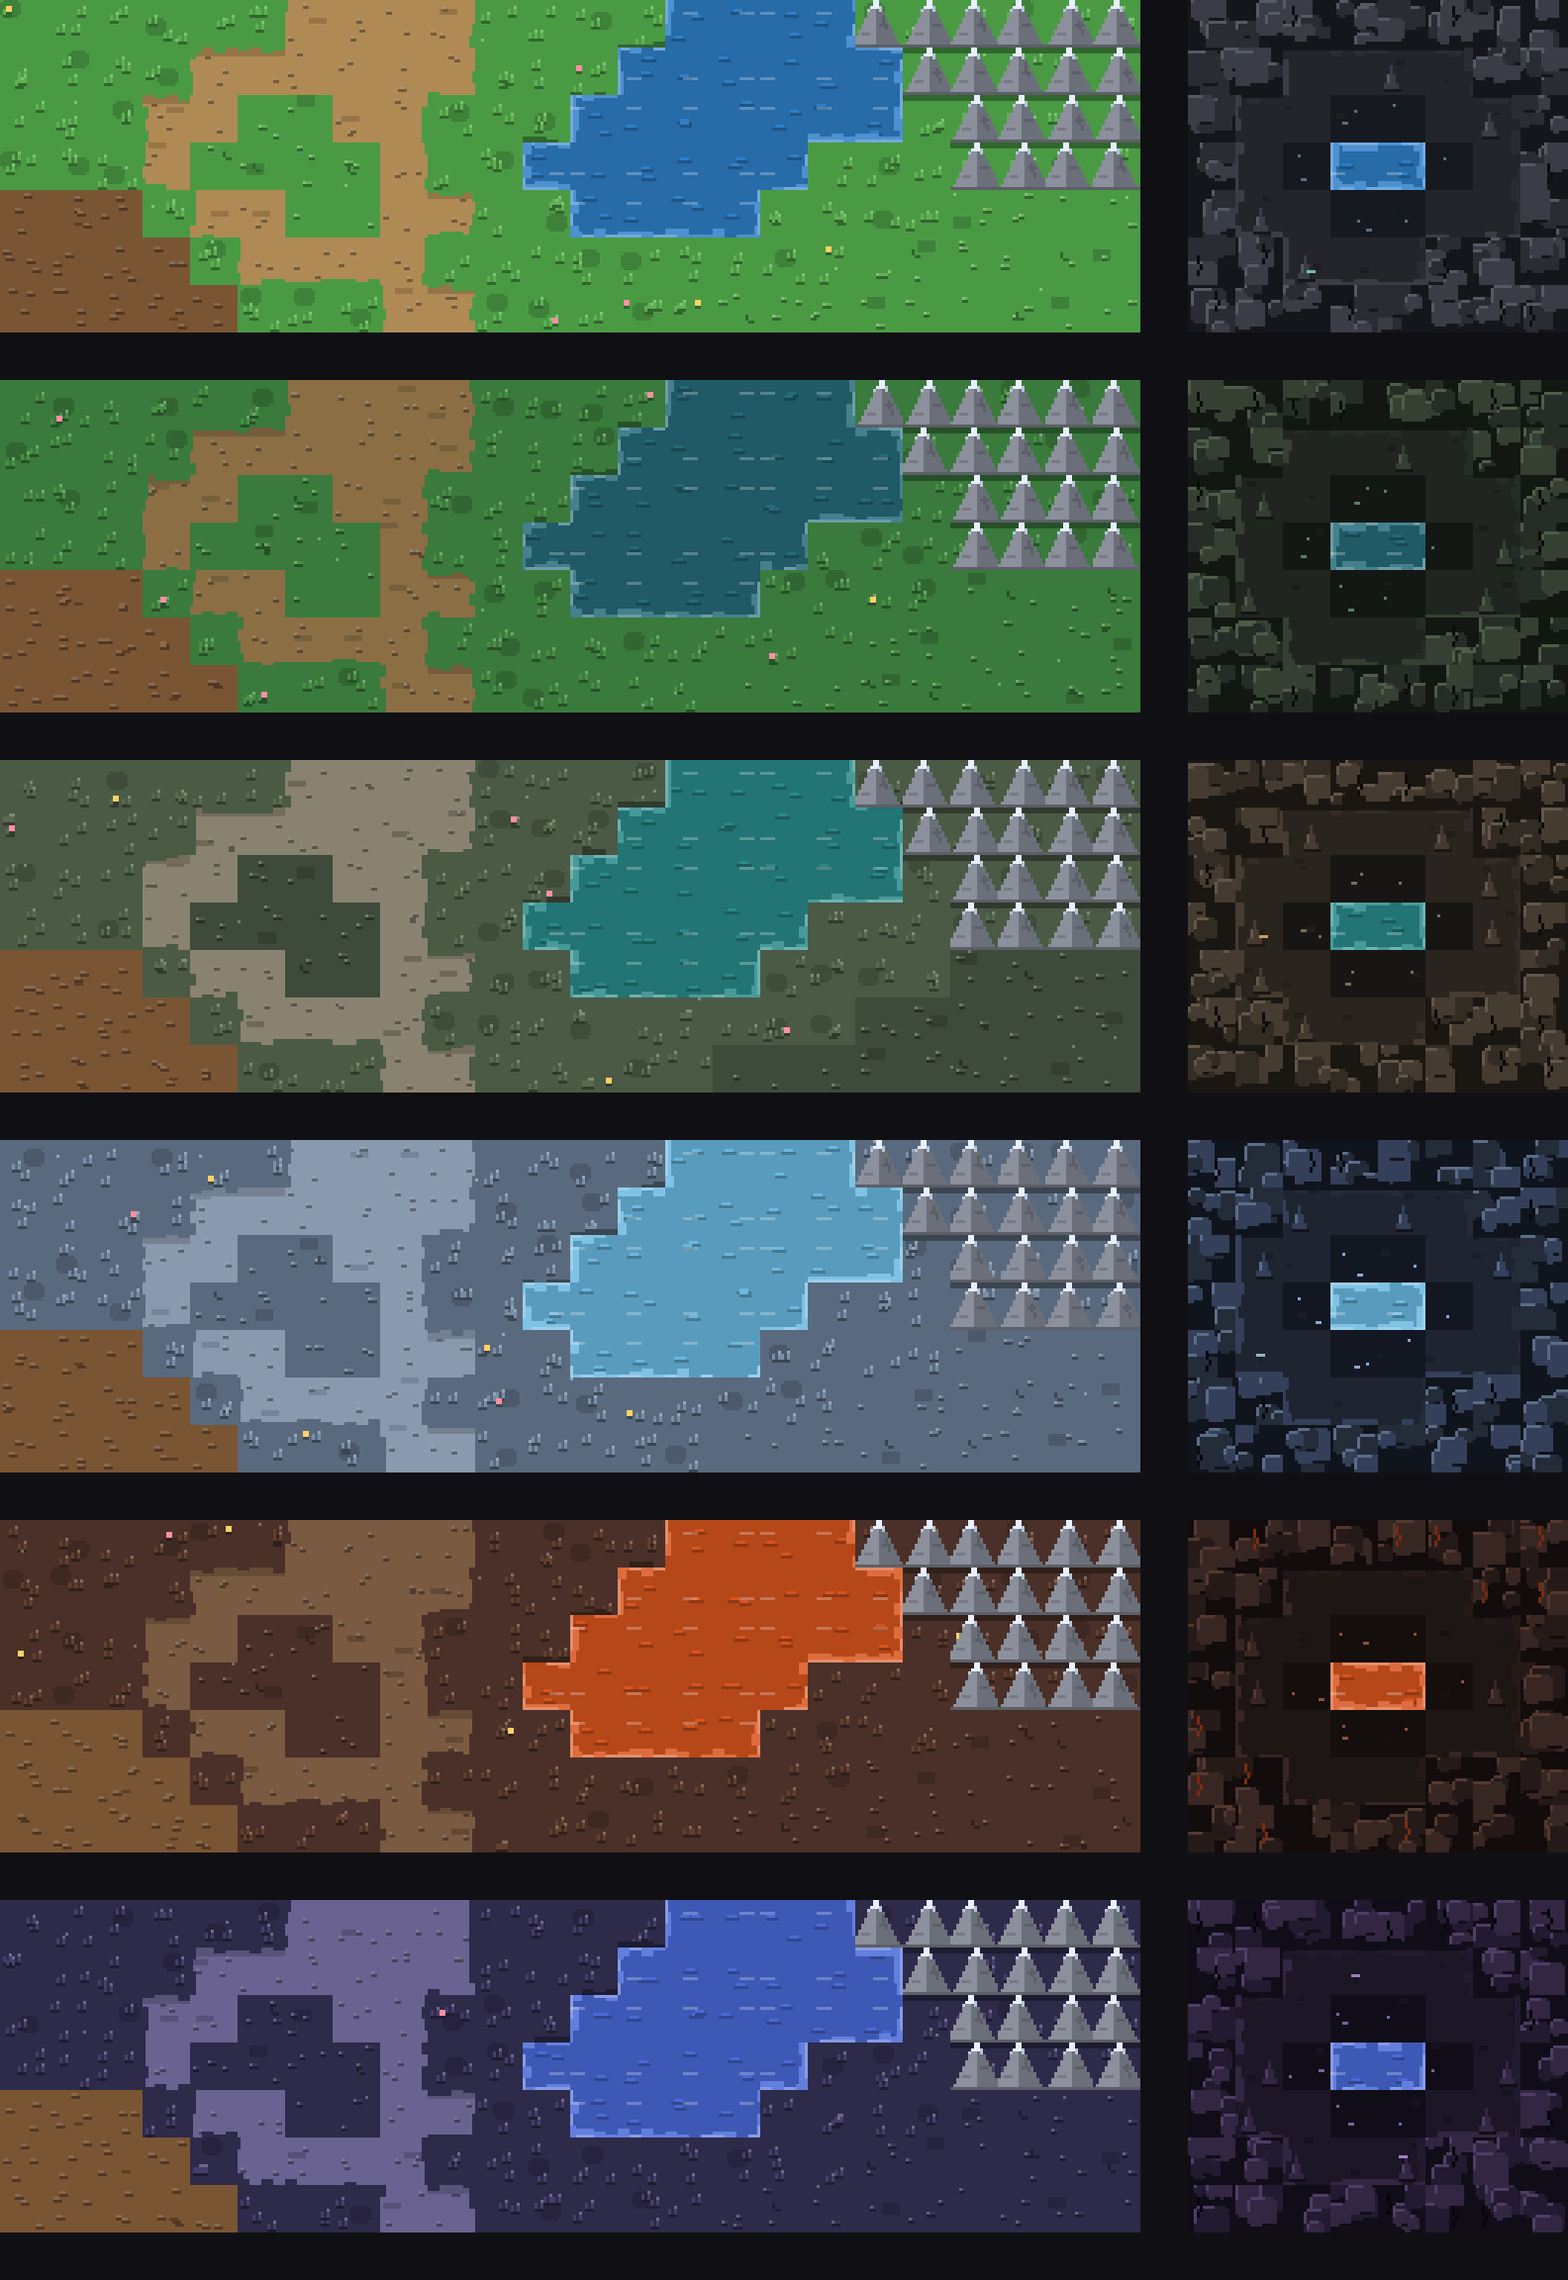
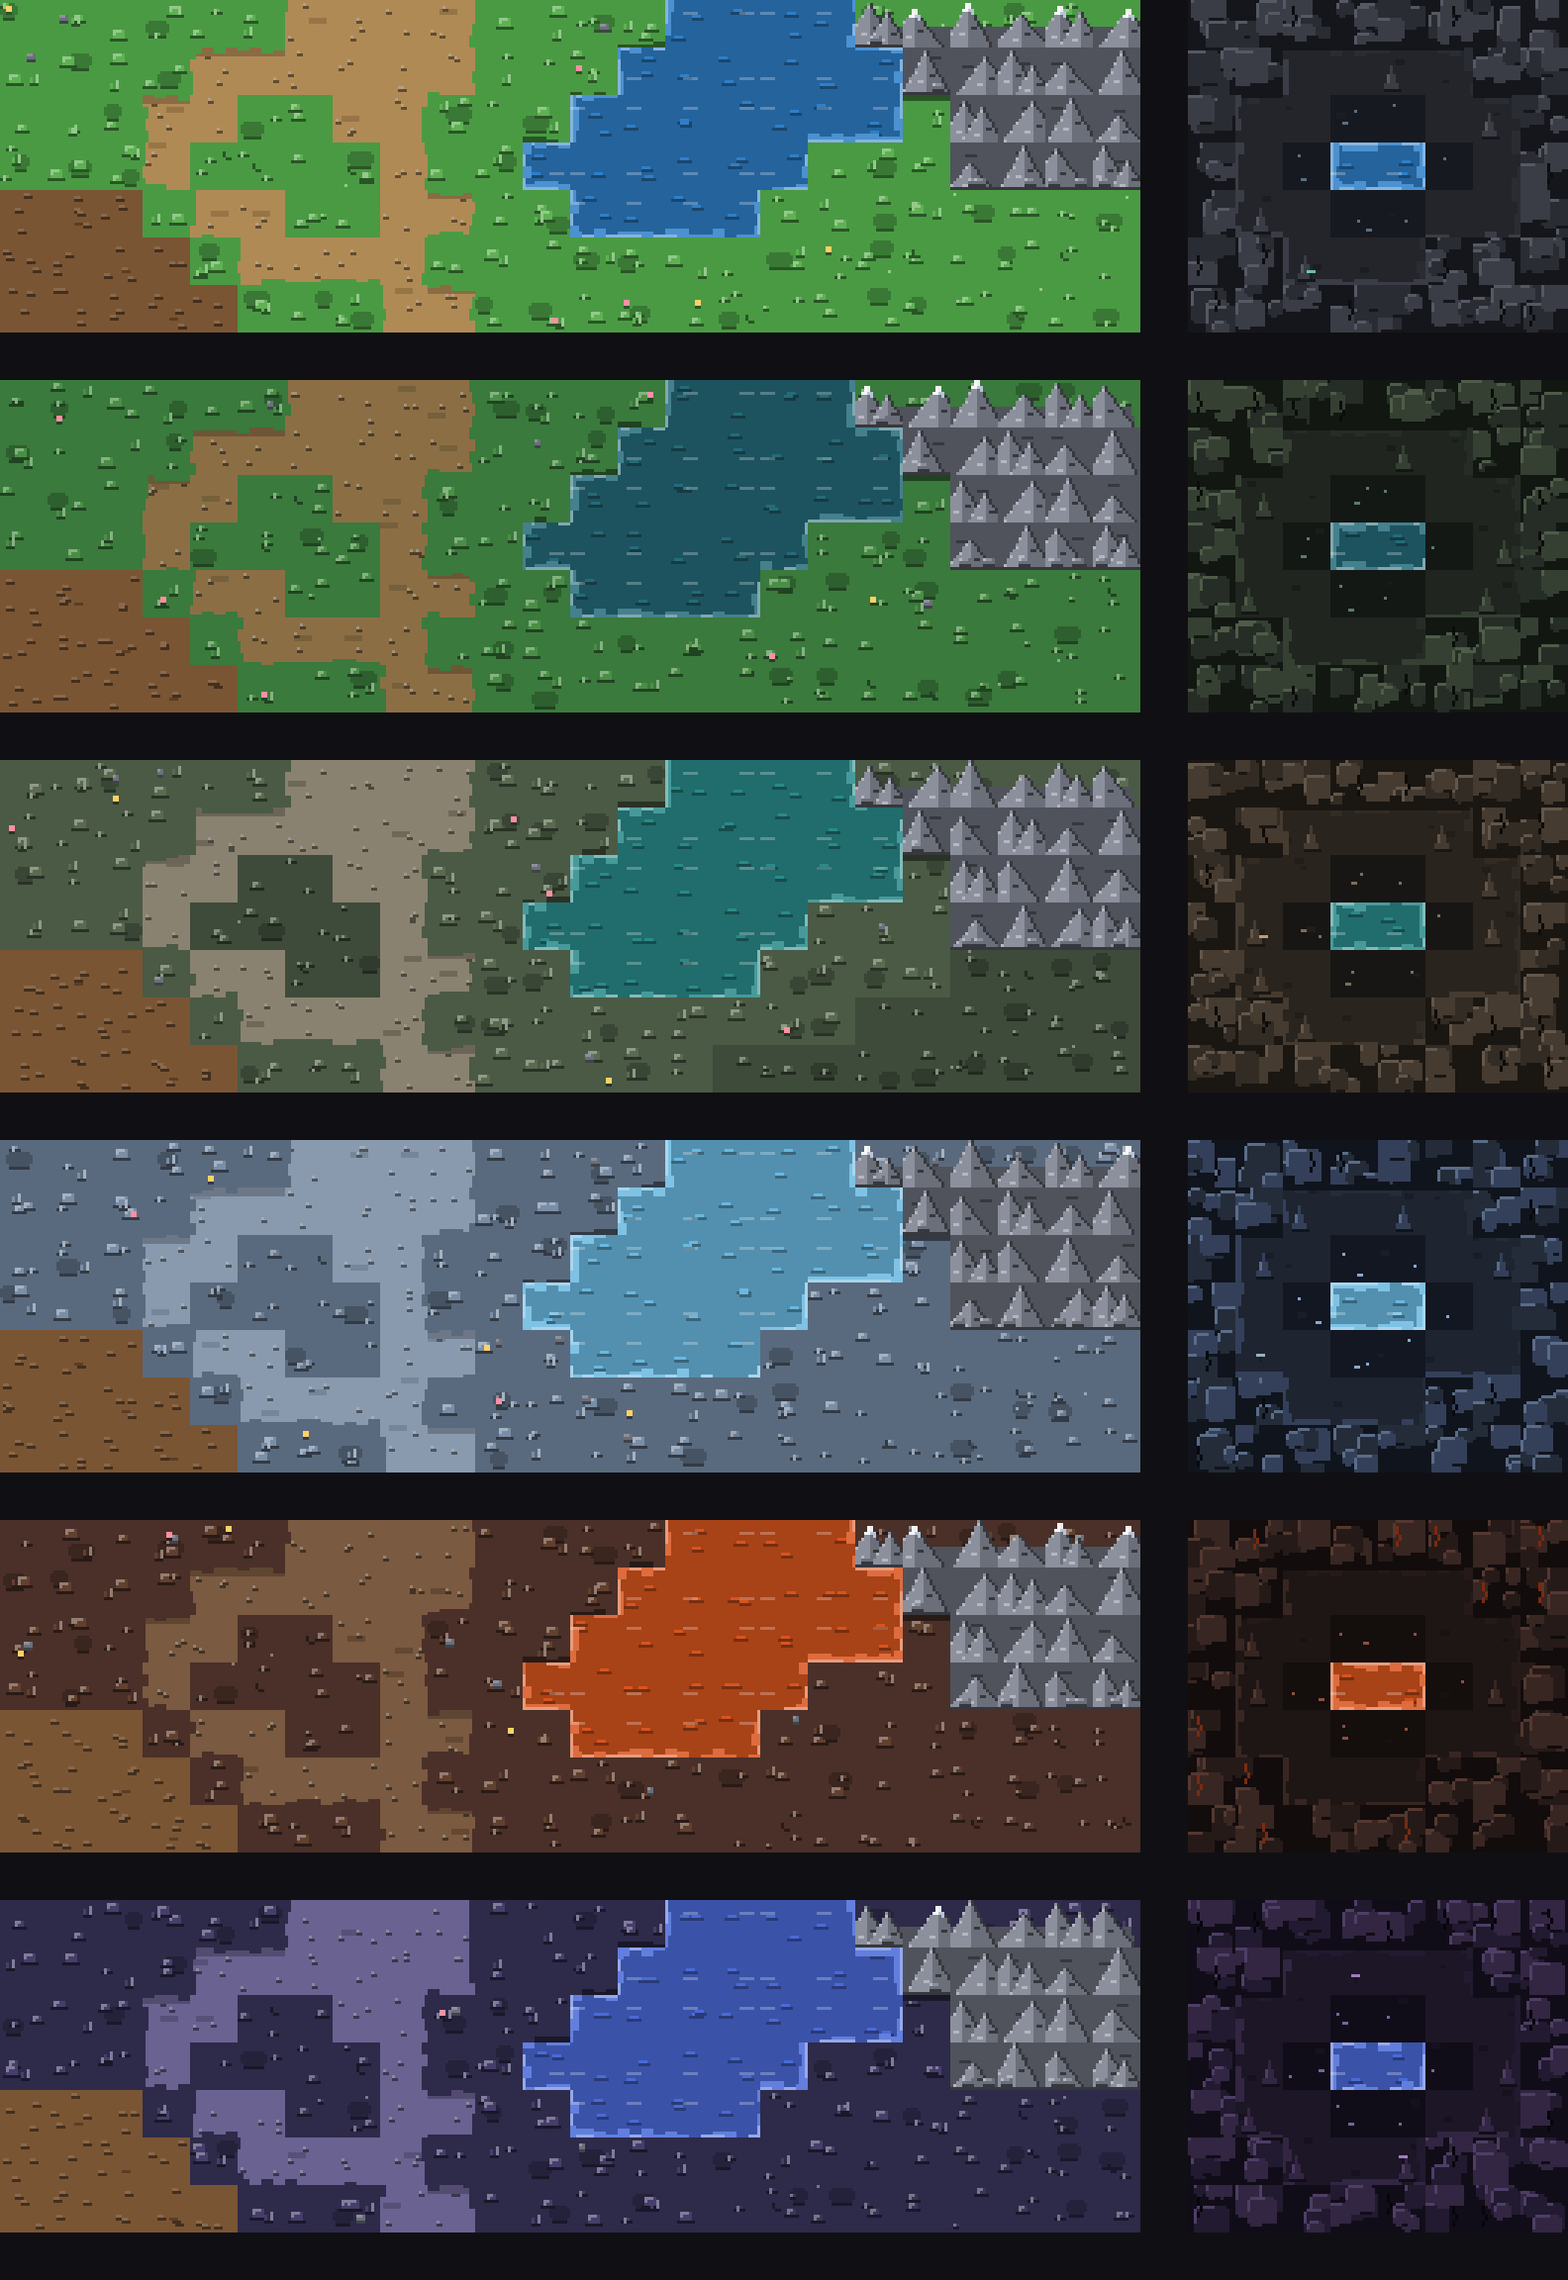
feat(world): stronger terrain contrast and varied mountain ranges
Wider TerrainRamp spread; grass and ground get 2-4 px clumps, stones and
darker patches. Mountains pick one of four peak shapes by hash, snow is
optional, and rock neighbours join into one mass with boulders at the
foot. Spec and tiles_after preview updated.

diff --git a/lib/features/world/presentation/map/terrain_tiles.dart b/lib/features/world/presentation/map/terrain_tiles.dart
@@ -6,10 +6,10 @@ part of 'tile_painter.dart';
 /// knob.
 class TerrainRamp {
   TerrainRamp._(this.base, Color alt)
-      : deep = Color.lerp(base, const Color(0xFF000000), 0.34)!,
-        shade = Color.lerp(base, const Color(0xFF000000), 0.16)!,
+      : deep = Color.lerp(base, const Color(0xFF000000), 0.45)!,
+        shade = Color.lerp(base, const Color(0xFF000000), 0.22)!,
         mid = alt,
-        lit = Color.lerp(alt, const Color(0xFFFFFFFF), 0.22)!;
+        lit = Color.lerp(alt, const Color(0xFFFFFFFF), 0.32)!;
 
   final Color deep, shade, base, mid, lit;
 
@@ -59,27 +59,56 @@ extension _TerrainTiles on TilePainter {
     }
   }
 
-  /// Grass: base, a shaded patch, tufts with dark root and lit tip, lit
-  /// specks, a rare flower; shade under the mountain, lip toward water.
+  /// A clump [s] px wide (2-4): deep base, mid body, lit top edge and a
+  /// lit pixel up-left — the cave boulder at grass scale.
+  void _clump(Canvas c, TerrainRamp r, double x, double y, int s) {
+    final w = s.toDouble();
+    _rect(c, r.deep, x - 1, y + w - 1, w + 2, 1);
+    _rect(c, r.mid, x, y, w, w - 1);
+    _rect(c, r.lit, x, y, w - 1, 1);
+    _rect(c, r.lit, x, y + 1, 1, 1);
+  }
+
+  /// A small stone in the mountain colours: deep foot, body, lit top.
+  void _stone(Canvas c, MapTheme th, double x, double y, int s) {
+    final w = s.toDouble();
+    _rect(
+        c, Color.lerp(th.rock, const Color(0xFF000000), 0.4)!, x, y + 2, w, 1);
+    _rect(c, th.rock, x, y, w, 2);
+    _rect(c, th.rock2, x, y, w - 1, 1);
+  }
+
+  /// A darker patch of 6-9 px with a deep lower rim.
+  void _patchOf(Canvas c, TerrainRamp r, double px, double py, int h) {
+    final w = 6.0 + _b(h, 9, 4),
+        x = px + _b(h, 2, 17 - w.toInt()),
+        y = py + 1 + _b(h, 6, 9);
+    _rect(c, r.shade, x + 1, y, w - 2, 5);
+    _rect(c, r.shade, x, y + 1, w, 3);
+    _rect(c, r.deep, x + 1, y + 5, w - 2, 1);
+  }
+
+  /// Grass: base, a darker patch, 1-2 clumps (2-4 px), a blade tuft, a
+  /// small stone, a rare flower; shade under the mountain, lip by water.
   void _grassDetail(Canvas c, MapTheme th, double px, double py, int tx, int ty,
       int h, TileAt? at) {
     final r = TerrainRamp.of(th.grass, th.grass2);
     _rect(c, r.base, px, py, _ts, _ts);
-    if (h % 3 == 0) {
-      final x = px + _b(h, 2, 9), y = py + _b(h, 6, 9);
-      _rect(c, r.shade, x, y + 1, 7, 4);
-      _rect(c, r.shade, x + 1, y, 5, 6);
+    if (h % 3 == 0) _patchOf(c, r, px, py, h);
+    for (var k = 0; k < 1 + (h >> 20) % 2; k++) {
+      final s = 2 + _b(h, 3 + k * 7, 3);
+      _clump(c, r, px + 1 + _b(h, 5 + k * 6, 14 - s),
+          py + 1 + _b(h, 11 + k * 6, 14 - s), s);
     }
-    for (var k = 0; k < 2 + h % 2; k++) {
-      final x = px + 1 + _b(h, 4 + k * 5, 12),
-          y = py + 3 + _b(h, 8 + k * 5, 11);
+    if (h % 2 == 1) {
+      final x = px + 2 + _b(h, 13, 11), y = py + 3 + _b(h, 17, 10);
       _rect(c, r.deep, x, y + 2, 3, 1);
       _rect(c, r.mid, x, y, 1, 2);
-      _rect(c, r.mid, x + 2, y - 1, 1, 3);
-      _rect(c, r.lit, x + 2, y - 1, 1, 1);
+      _rect(c, r.lit, x + 2, y - 1, 1, 3);
     }
-    if (h % 7 == 2) {
-      _rect(c, r.lit, px + _b(h, 12, 14), py + _b(h, 15, 14), 1, 1);
+    if (h % 11 == 3) {
+      _stone(c, th, px + 2 + _b(h, 7, 10), py + 2 + _b(h, 15, 10),
+          2 + _b(h, 4, 2));
     }
     if (h % 17 == 0) {
       final x = px + 2 + _b(h, 5, 11), y = py + 2 + _b(h, 13, 11);
@@ -95,16 +124,19 @@ extension _TerrainTiles on TilePainter {
     }
   }
 
-  /// Open ground: two tones, faceted pebbles, a crack, a lit speck.
+  /// Open ground: a darker patch, 1-2 clumps of earth, small stones, a
+  /// crack, a lit speck.
   void _groundDetail(Canvas c, MapTheme th, double px, double py, int h) {
     final r = TerrainRamp.of(th.ground, th.ground2);
     _rect(c, r.base, px, py, _ts, _ts);
-    if (h % 4 == 0) {
-      _rect(c, r.shade, px + _b(h, 3, 10), py + _b(h, 7, 11), 6, 4);
+    if (h % 3 == 1) _patchOf(c, r, px, py, h);
+    for (var k = 0; k < 1 + (h >> 21) % 2; k++) {
+      final s = 2 + _b(h, 4 + k * 7, 2);
+      _clump(c, r, px + 1 + _b(h, 5 + k * 6, 14 - s),
+          py + 1 + _b(h, 9 + k * 6, 14 - s), s);
     }
-    for (var k = 0; k < 1 + h % 3; k++) {
-      _pebble(c, r, px + 1 + _b(h, 5 + k * 4, 12),
-          py + 1 + _b(h, 9 + k * 4, 13), 2 + (k % 2).toDouble());
+    if (h % 4 == 2) {
+      _pebble(c, r, px + 1 + _b(h, 12, 12), py + 1 + _b(h, 16, 13), 2);
     }
     if (h % 5 == 1) {
       final x = px + 3 + _b(h, 11, 9), y = py + 3 + _b(h, 14, 8);
@@ -178,34 +210,82 @@ extension _TerrainTiles on TilePainter {
     _edgeBumps(c, r.lit, px, py, h, 5 + s * 3, side: s, maxDepth: 1);
   }
 
-  /// Mountain: a stepped pixel peak with a lit and a shaded face, strata,
-  /// a crack, a shaded snow cap and a dark foot — the cave boulder's
-  /// facets at peak scale.
-  void _rockDetail(Canvas c, MapTheme th, double px, double py, int h) {
-    final r = TerrainRamp.of(th.rock2, th.rock);
-    final apex = px + 8 + (h % 3 - 1);
-    for (var row = 0; row < 15; row++) {
-      final half = ((row + 1) * 8 / 15).roundToDouble();
-      // Clamped to the cell: the peak never leaves its 16 px.
-      final l = math.max(apex - half, px);
-      final rt = math.min(apex + half, px + _ts);
-      _rect(c, r.base, l, py + row, apex - l, 1);
-      _rect(c, th.rock, apex, py + row, rt - apex, 1);
-      if (row % 3 == 2) _rect(c, r.lit, l, py + row, 1, 1);
+  /// Mountain (tile_detail.md § 3.1): one of four peak shapes by hash
+  /// (tall, low and wide, double, shoulder), a lit left face and a shaded
+  /// right face, optional snow; joined to rock neighbours as one mass
+  /// (a body fill toward rock sides, no foot line inside the range) and
+  /// boulders at the foot of the range.
+  void _rockDetail(Canvas c, MapTheme th, double px, double py, int tx, int ty,
+      int h, TileAt? at) {
+    bool rk(int dx, int dy) => at?.call(tx + dx, ty + dy) == Tile.rock;
+    final up = rk(0, -1), lf = rk(-1, 0), rt = rk(1, 0), dn = rk(0, 1);
+    const black = Color(0xFF000000), white = Color(0xFFFFFFFF);
+    final lit = th.rock2,
+        shaded = th.rock,
+        hi = Color.lerp(th.rock2, white, 0.35)!,
+        body = Color.lerp(th.rock, black, 0.25)!,
+        deep = Color.lerp(th.rock, black, 0.5)!;
+    // The mass: a body fill toward rock neighbours.
+    if (up) {
+      _rect(c, body, px, py, _ts, _ts);
+      _rect(c, deep, px + 2 + _b(h, 3, 9), py + 3 + _b(h, 7, 4), 4, 1);
+    } else if (lf || rt) {
+      final x0 = lf ? px : px + 3, x1 = rt ? px + _ts : px + 13;
+      _rect(c, body, x0, py + 9, x1 - x0, 7);
     }
-    _rect(c, r.deep, apex + 1, py + 8, 3, 1);
-    _rect(c, r.shade, apex - 5, py + 11, 3, 1);
-    if (h % 2 == 0) {
-      _rect(c, r.deep, apex + 2, py + 5 + h % 3, 1, 3);
-      _rect(c, r.deep, apex + 3, py + 8 + h % 3, 1, 2);
+    if (dn && (lf || rt || up)) {
+      final x0 = lf ? px : px + 2, x1 = rt ? px + _ts : px + 14;
+      _rect(c, body, x0, py + 12, x1 - x0, 4);
     }
-    const snow = Color(0xFFE8F0FF), snowShade = Color(0xFFB8C4D8);
-    _rect(c, snow, apex - 1, py, 2, 2);
-    _rect(c, snow, apex - 2, py + 2, 3, 1);
-    _rect(c, snowShade, apex + 1, py + 2, 1, 1);
-    _rect(c, snowShade, apex - 3, py + 3, 1, 1);
-    _rect(c, snowShade, apex + 1, py + 3, 1, 1);
-    _rect(c, r.deep, px, py + 15, _ts, 1);
+    void peak(double ax, double top, double slope, {required bool snow}) {
+      for (var y = top; y < py + _ts; y++) {
+        final half = ((y - top) * slope + 0.6).roundToDouble();
+        final l = math.max(ax - half, px), rr = math.min(ax + half, px + _ts);
+        if (ax > l) _rect(c, lit, l, y, ax - l, 1);
+        if (rr > ax) _rect(c, shaded, ax, y, rr - ax, 1);
+        if (((y - top) % 3) == 1 && ax - half >= px) {
+          _rect(c, hi, l, y, 1, 1);
+        }
+        if (ax + half <= px + _ts && rr > ax) {
+          _rect(c, deep, rr - 1, y, 1, 1);
+        }
+      }
+      // Strata on the shaded face.
+      final sy = top + ((py + _ts - top) * 0.55).roundToDouble();
+      _rect(c, deep, ax + 1, sy, 2, 1);
+      _rect(c, hi, ax - 3 >= px ? ax - 3 : px, sy + 2, 2, 1);
+      if (snow) {
+        _rect(c, white.withValues(alpha: 0.92), ax - 1, top, 2, 2);
+        _rect(c, white.withValues(alpha: 0.92), ax - 2, top + 2, 2, 1);
+        _rect(c, const Color(0xFFB8C4D8), ax, top + 2, 2, 1);
+        _rect(c, const Color(0xFFB8C4D8), ax + 1, top + 3, 1, 1);
+      }
+    }
+
+    final snowy = !up && h % 3 != 0;
+    switch (h % 4) {
+      case 0: // tall
+        peak(px + 6 + _b(h, 3, 5), py + _b(h, 6, 2), 0.55, snow: snowy);
+      case 1: // low and wide
+        peak(px + 7 + _b(h, 3, 3), py + 5 + _b(h, 6, 3), 0.95, snow: false);
+      case 2: // double
+        peak(px + 4 + _b(h, 3, 2), py + 1 + _b(h, 6, 2), 0.6, snow: snowy);
+        peak(px + 11 + _b(h, 8, 2), py + 4 + _b(h, 10, 3), 0.6, snow: false);
+      default: // shoulder: offset apex
+        final left = h & 16 == 0;
+        peak(left ? px + 4 : px + 12, py + 2 + _b(h, 6, 2), 0.75, snow: snowy);
+    }
+    if (!dn) {
+      // Boulders at the foot, dark contact line.
+      for (var k = 0; k < 1 + h % 2; k++) {
+        final x = px + 1 + _b(h, 12 + k * 5, 11), y = py + 12.0;
+        _rect(c, shaded, x, y, 4, 2);
+        _rect(c, lit, x, y, 3, 1);
+        _rect(c, hi, x, y, 1, 1);
+        _rect(c, deep, x, y + 2, 4, 1);
+      }
+      _rect(c, deep, px, py + 15, _ts, 1);
+    }
   }
 
   /// Tilled soil: clods with a lit top and a dark underside.

diff --git a/lib/features/world/presentation/map/tile_painter.dart b/lib/features/world/presentation/map/tile_painter.dart
@@ -395,7 +395,7 @@ class TilePainter {
         _tree(c, th, px, py, h, themeId);
       case Tile.rock when terrainDetailTheme(themeId):
         _grassDetail(c, th, px, py, tx, ty, h, at);
-        _rockDetail(c, th, px, py, h);
+        _rockDetail(c, th, px, py, tx, ty, h, at);
       case Tile.rock:
         _grass(c, th, px, py, h);
         _rock(c, th, px, py, h);

diff --git a/docs/specs/tile_detail.md b/docs/specs/tile_detail.md
@@ -25,26 +25,36 @@ look. Tiles are procedural (no sprite assets); the only knobs are the
 4. Neighbour-aware edges: irregular 4 px bumps of 0-3 px toward a
    different neighbour, plus contact shadow — never a straight seam.
 
-`TerrainRamp.of(base, alt)` derives the ramp: deep = base 34 % to black,
-shade = base 16 % to black, base, mid = alt colour, lit = alt 22 % to
-white. Ramps are cached (water is redrawn each frame).
+`TerrainRamp.of(base, alt)` derives the ramp: deep = base 45 % to black,
+shade = base 22 % to black, base, mid = alt colour, lit = alt 32 % to
+white (pass 2: wider spread, closer to the cave contrast). Ramps are cached (water is redrawn each frame).
 
 ## 3. Per terrain
 
-- **Grass**: base, a shaded patch (1/3), 2-3 tufts (deep root, mid
-  blades, lit tip), lit speck (1/7), flower (1/17). Deep 2 px shade under
-  a mountain above; deep bumps on the bottom edge toward water.
-- **Ground**: base, a shaded patch (1/4), 1-3 faceted pebbles, a deep
-  crack (1/5), lit speck (1/9). Theme `_floorDetail` still runs on top.
+- **Clump** (shared): 2-4 px square, deep base row one px wider, mid
+  body, lit top edge and a lit pixel up-left.
+- **Grass**: base, a darker 6-9 px patch with a deep lower rim (1/3),
+  1-2 clumps, a blade tuft (1/2), a small stone in the mountain colours
+  (1/11), flower (1/17). Deep 2 px shade under a mountain above; deep
+  bumps on the bottom edge toward water. Calm: at most ~4 features.
+- **Ground**: base, a darker patch (1/3), 1-2 earth clumps (2-3 px), a
+  pebble (1/4), a deep crack (1/5), lit speck (1/9). Theme
+  `_floorDetail` still runs on top.
 - **Path / road**: base, a rut in `path2` (1/3), 2-3 gravel bits (lit
   top, deep under). Toward grass, tree or mountain neighbours: grass bumps
   (0-2 px) eat in, and a shade band falls on the top edge.
 - **Water**: shade body, 1-2 ripples (deep trough, base crest), and per
   land neighbour a shore band of mid bumps (0-3 px) with lit foam (0-1
   px). The moving glint stays the animated part.
-- **Mountain**: stepped pixel peak, lit left face and shaded right face,
-  lit ridge pixels every 3 rows, deep strata and a crack (1/2), snow cap
-  with a shaded underside, deep foot line.
+- **Mountain** (§ 3.1): shape by `h % 4` — tall (slope 0.55, may
+  snow), low and wide (0.95, no snow), double peak (second one lower), or
+  shoulder (apex at x 4 or 12). Lit left face (`rock2`), shaded right
+  face (`rock`), lit ridge pixels every 3 rows, deep right rim, strata.
+  Snow only on non-covered tiles and 2 of 3 hashes. **Mass**: with rock
+  above, the whole cell is a dark body fill (`rock` 25 % to black) and
+  peaks rise over it; rock to the sides extends a body band to that edge;
+  inside the range there is no foot line. At the range foot (no rock
+  below): 1-2 boulders and a deep contact line.
 - **Soil**: base, 3-4 clods (lit top, deep under), a furrow (1/4).
 
 ## 4. Rules
